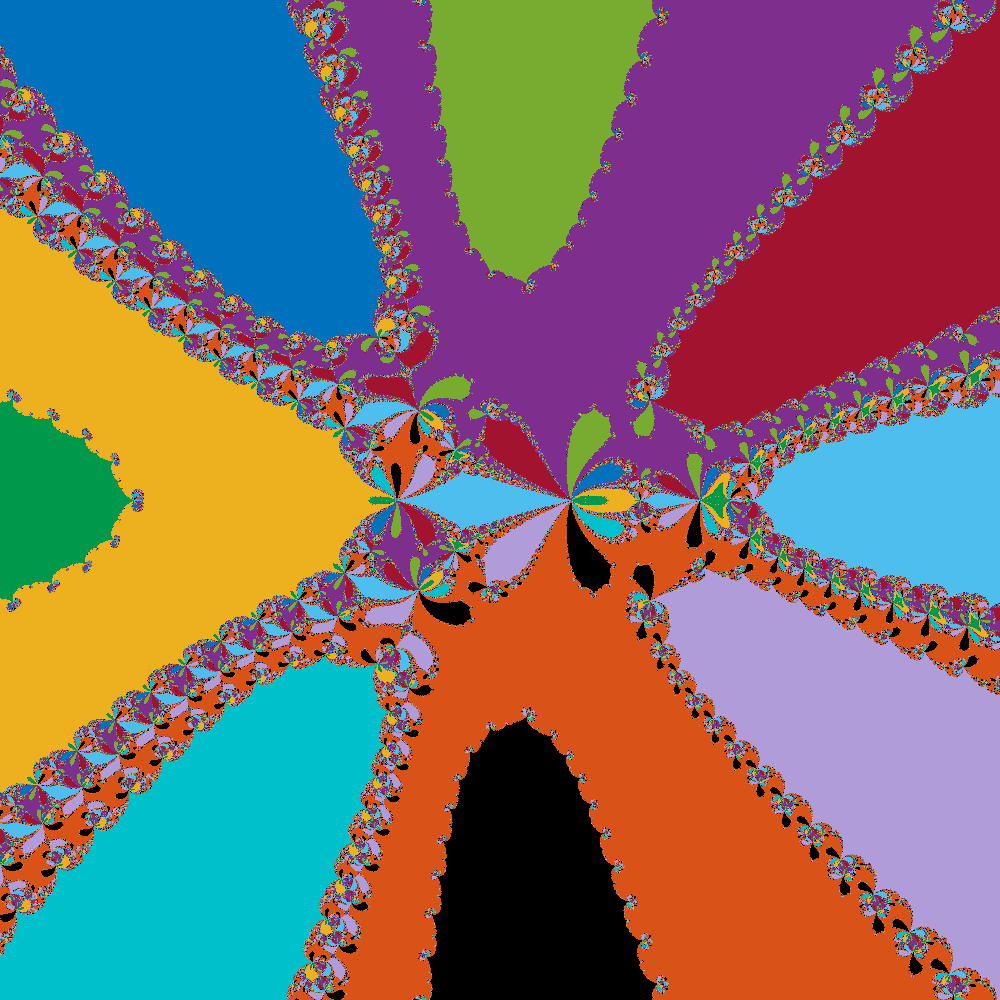
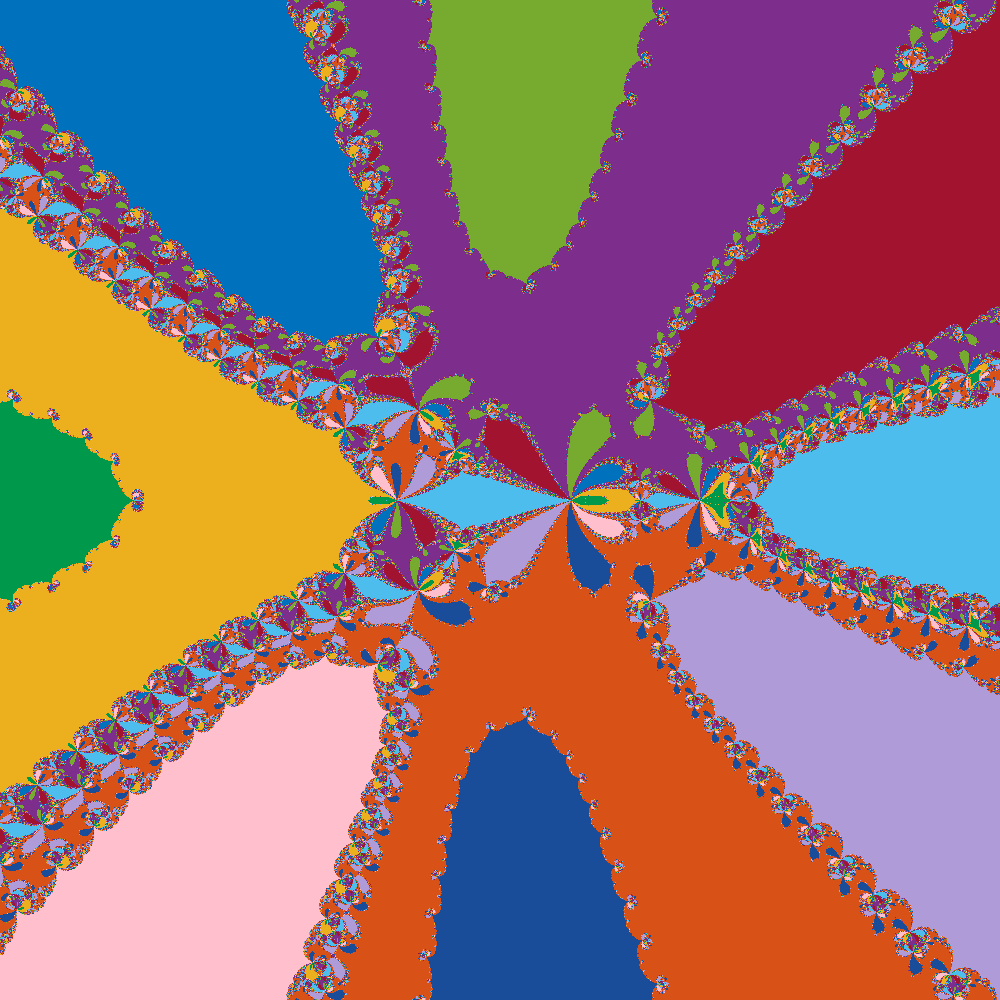
update color scheme

diff --git a/src/png_util.c b/src/png_util.c
@@ -29,10 +29,11 @@ void writeImage(const char *filename, int width, int height, int *buffer)
     // write to png row by row
     row = (png_bytep)malloc(3*width*sizeof(png_byte));
 
-    // arrays for red, green, and blue percentages
-    float r[12] = {0    , 0.85 , 0.494, 0.466, 0.635, 0.301, 0.929, 1, 0.69, 1   , 0  , 0};
-    float g[12] = {0.447, 0.325, 0.184, 0.674, 0.078, 0.745, 0.694, 0, 0.61, 0.75, 0.6, 0.5};
-    float b[12] = {0.741, 0.098, 0.556, 0.188, 0.184, 0.933, 0.125, 0, 0.85, 0.8 , 0.3, 0.5};
+    // arrays for red   , green, and blue percentages
+    // blue, orange, purple, light green, dark red, light blue, yellow, dark blue, ... TODO
+    float r[12] = {0    , 0.85 , 0.494, 0.466, 0.635, 0.301, 0.929, 0.10   , 0.69, 1   , 0  , 0};
+    float g[12] = {0.447, 0.325, 0.184, 0.674, 0.078, 0.745, 0.694, 0.30   , 0.61, 0.75, 0.6, 0.5};
+    float b[12] = {0.741, 0.098, 0.556, 0.188, 0.184, 0.933, 0.125, 0.60, 0.85, 0.8 , 0.3, 0.5};
 
     int x, y;
     for (y = 0; y < height; ++y) {
@@ -42,9 +43,9 @@ void writeImage(const char *filename, int width, int height, int *buffer)
             int val = buffer[y*width + x];
 
             // convert into RGB triplets by multiplying each by 256
-            ptr[0] = (int)(r[val]*256);
-            ptr[1] = (int)(g[val]*256);
-            ptr[2] = (int)(b[val]*256);
+            ptr[0] = (int)(r[val]*255);
+            ptr[1] = (int)(g[val]*255);
+            ptr[2] = (int)(b[val]*255);
         }
 
         png_write_row(png_ptr, row);
